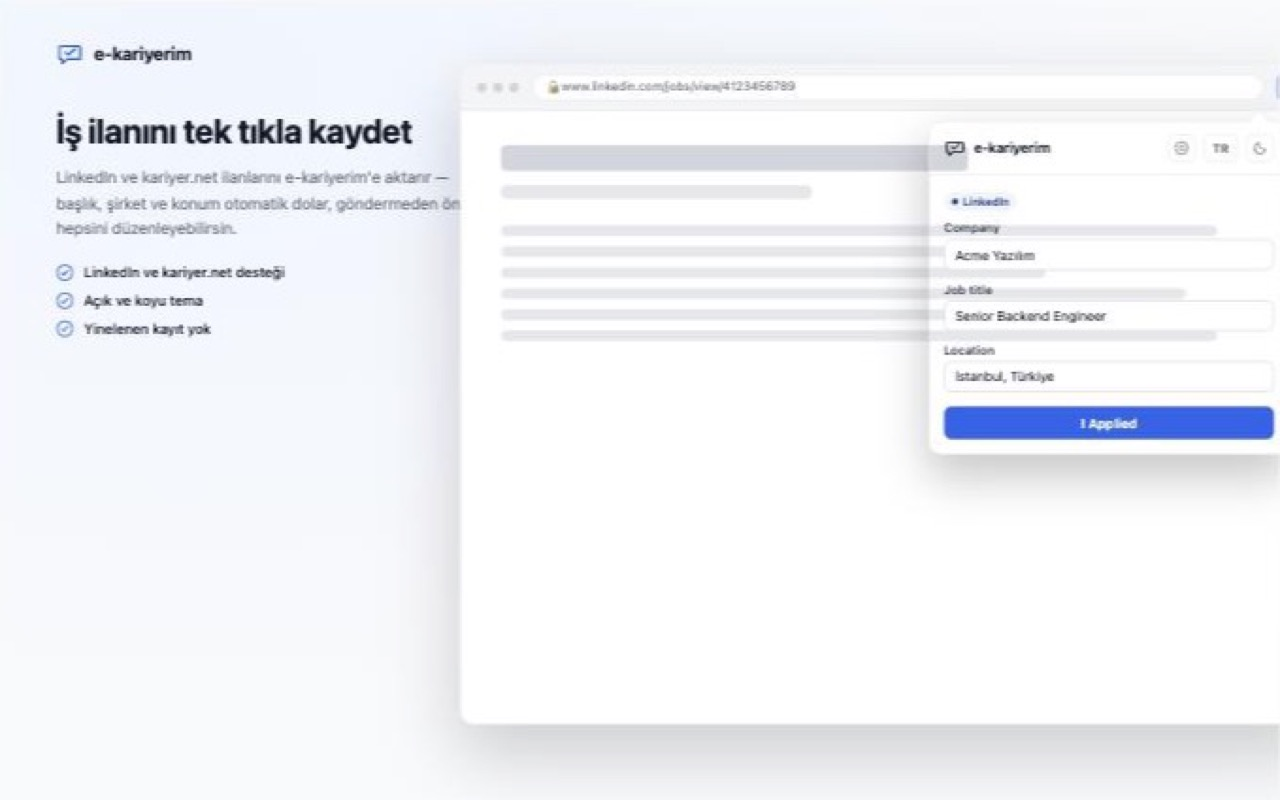
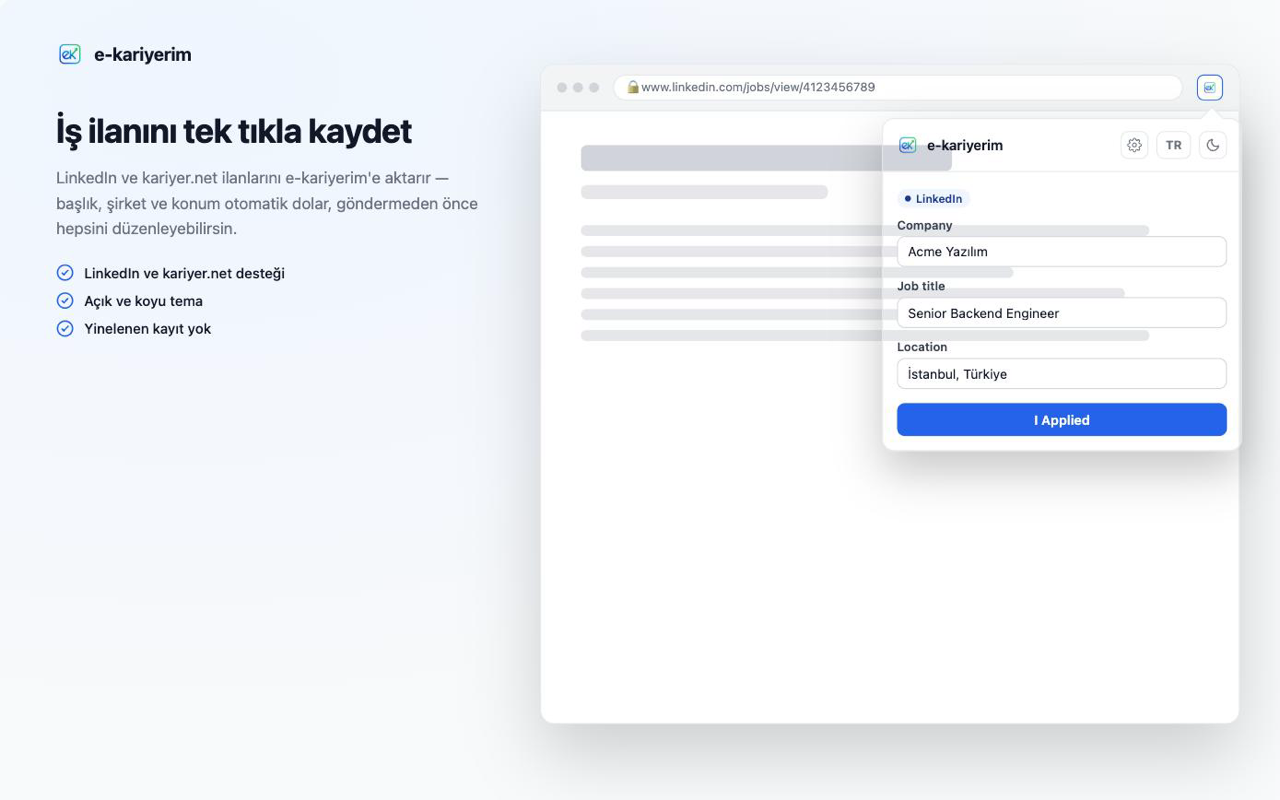
Reshoot the rest of the help images, and fix what shooting them exposed
Every help screenshot and GIF except dashboard-overview.png came from one
session on 2026-09-01, and had been wrong at least twice since: the app mark
became the "ek" gradient logo the next day, and Notifications joined the navbar,
which in those narrow captures wrapped onto a second row. Page by page, the
sign-in shot predated Google and LinkedIn sign-in and the forgot-password link,
sign-up predated the confirm-password field and the password policy, settings
still showed the deleted email-forwarding card, and suggestions predated
rejection-reason extraction.

The landing page needed nothing. It holds no image at all: HeroSection's
DashboardPreview and AnalyticsSection run the real dashboard components against
fixed demo data, so the redesign already updated it. Worth keeping — it makes
the signed-out screen impossible to leave behind rather than merely a chore.

Shot from a seeded demo account, not real data. This one is kept, restored
afterwards to exactly the state the images show, so the next refresh can log in
and reshoot. The GIFs drop the recorder's overlays: the old ones had a "wait"
label, an orange progress bar and a Claude watermark burnt into public product
documentation.

chrome-extension-popup.png and chrome-extension-options.png were not screenshots
at all — the store listing's marketing compositions had been copied into the
help centre, and the popup one was visibly broken, its left column clipped by
[…]

diff --git a/extension/store-listing/screenshots/scene-job.html b/extension/store-listing/screenshots/scene-job.html
@@ -66,7 +66,7 @@
     align-items: center;
     gap: 10px;
   }
-  .brand svg { width: 28px; height: 28px; color: var(--brand-accent); }
+  .brand img { width: 28px; height: 28px; }
   .brand span { font-size: 18px; font-weight: 700; color: var(--text); letter-spacing: -0.01em; }
 
   .headline {
@@ -96,8 +96,8 @@
   .browser {
     position: absolute;
     top: 64px;
-    right: -40px;
-    width: 860px;
+    right: 40px;
+    width: 700px;
     height: 660px;
     background: var(--page-bg);
     border: 1px solid var(--page-border);
@@ -140,7 +140,8 @@
     justify-content: center;
     color: var(--brand-accent);
   }
-  .toolbar-icon svg { width: 15px; height: 15px; }
+  .toolbar-icon svg,
+  .toolbar-icon img { width: 15px; height: 15px; }
 
   .page-body { padding: 34px 40px; }
   .job-title { height: 26px; width: 60%; background: var(--line-strong); border-radius: 6px; margin-bottom: 14px; }
@@ -153,8 +154,8 @@
 
   .popup-anchor {
     position: absolute;
-    top: 56px;
-    right: 30px;
+    top: 118px;
+    right: 38px;
     width: 360px;
   }
   .pointer {
@@ -191,10 +192,7 @@
 
   <div id="canvas">
   <div class="brand">
-    <svg viewBox="0 0 24 24" fill="none" stroke="currentColor" stroke-width="1.75" stroke-linecap="round" stroke-linejoin="round">
-      <path d="M4 5.5h16a1 1 0 011 1v9a1 1 0 01-1 1H9.5l-4 3.5v-3.5H4a1 1 0 01-1-1v-9a1 1 0 011-1z"/>
-      <path d="M8 10.5l2.4 2.4L16.5 7.5"/>
-    </svg>
+    <img src="../../icons/icon48.png" alt="" />
     <span>e-kariyerim</span>
   </div>
 
@@ -213,10 +211,7 @@
       <div class="dots"><span></span><span></span><span></span></div>
       <div class="address">🔒 www.linkedin.com/jobs/view/4123456789</div>
       <div class="toolbar-icon">
-        <svg viewBox="0 0 24 24" fill="none" stroke="currentColor" stroke-width="1.75" stroke-linecap="round" stroke-linejoin="round">
-          <path d="M4 5.5h16a1 1 0 011 1v9a1 1 0 01-1 1H9.5l-4 3.5v-3.5H4a1 1 0 01-1-1v-9a1 1 0 011-1z"/>
-          <path d="M8 10.5l2.4 2.4L16.5 7.5"/>
-        </svg>
+        <img src="../../icons/icon48.png" alt="" />
       </div>
     </div>
     <div class="page-body">
@@ -230,32 +225,30 @@
       <div class="job-line w1"></div>
     </div>
 
-    <div class="popup-anchor">
-      <div class="pointer"></div>
-      <div class="popup-window">
-        <header class="app-header">
-          <svg class="logo" viewBox="0 0 24 24" fill="none" stroke="currentColor" stroke-width="1.75" stroke-linecap="round" stroke-linejoin="round">
-            <path d="M4 5.5h16a1 1 0 011 1v9a1 1 0 01-1 1H9.5l-4 3.5v-3.5H4a1 1 0 01-1-1v-9a1 1 0 011-1z"/>
-            <path d="M8 10.5l2.4 2.4L16.5 7.5"/>
-          </svg>
-          <h1>e-kariyerim</h1>
-          <button class="theme-toggle" type="button" aria-hidden="true" tabindex="-1">
-            <svg viewBox="0 0 24 24" fill="none" stroke="currentColor" stroke-width="1.75" stroke-linecap="round" stroke-linejoin="round"><circle cx="12" cy="12" r="3"/><path d="M19.4 15a1.65 1.65 0 00.33 1.82l.06.06a2 2 0 11-2.83 2.83l-.06-.06a1.65 1.65 0 00-1.82-.33 1.65 1.65 0 00-1 1.51V21a2 2 0 01-4 0v-.09A1.65 1.65 0 009 19.4a1.65 1.65 0 00-1.82.33l-.06.06a2 2 0 11-2.83-2.83l.06-.06A1.65 1.65 0 004.6 15a1.65 1.65 0 00-1.51-1H3a2 2 0 010-4h.09A1.65 1.65 0 004.6 9a1.65 1.65 0 00-.33-1.82l-.06-.06a2 2 0 112.83-2.83l.06.06A1.65 1.65 0 009 4.6a1.65 1.65 0 001-1.51V3a2 2 0 014 0v.09a1.65 1.65 0 001 1.51 1.65 1.65 0 001.82-.33l.06-.06a2 2 0 112.83 2.83l-.06.06A1.65 1.65 0 0019.4 9a1.65 1.65 0 001.51 1H21a2 2 0 010 4h-.09a1.65 1.65 0 00-1.51 1z"/></svg>
-          </button>
-          <button class="lang-toggle" type="button" aria-hidden="true" tabindex="-1">TR</button>
-          <button id="sceneThemeToggle" class="theme-toggle" type="button" aria-hidden="true" tabindex="-1"></button>
-        </header>
-        <main id="content">
-          <span class="site-badge">LinkedIn</span>
-          <label>Company</label>
-          <input type="text" value="Acme Yazılım" readonly />
-          <label>Job title</label>
-          <input type="text" value="Senior Backend Engineer" readonly />
-          <label>Location</label>
-          <input type="text" value="İstanbul, Türkiye" readonly />
-          <button class="primary">I Applied</button>
-        </main>
-      </div>
+  </div>
+
+  <div class="popup-anchor">
+    <div class="pointer"></div>
+    <div class="popup-window">
+      <header class="app-header">
+        <img class="logo" src="../../icons/icon48.png" alt="" width="22" height="22" />
+        <h1>e-kariyerim</h1>
+        <button class="theme-toggle" type="button" aria-hidden="true" tabindex="-1">
+          <svg viewBox="0 0 24 24" fill="none" stroke="currentColor" stroke-width="1.75" stroke-linecap="round" stroke-linejoin="round"><circle cx="12" cy="12" r="3"/><path d="M19.4 15a1.65 1.65 0 00.33 1.82l.06.06a2 2 0 11-2.83 2.83l-.06-.06a1.65 1.65 0 00-1.82-.33 1.65 1.65 0 00-1 1.51V21a2 2 0 01-4 0v-.09A1.65 1.65 0 009 19.4a1.65 1.65 0 00-1.82.33l-.06.06a2 2 0 11-2.83-2.83l.06-.06A1.65 1.65 0 004.6 15a1.65 1.65 0 00-1.51-1H3a2 2 0 010-4h.09A1.65 1.65 0 004.6 9a1.65 1.65 0 00-.33-1.82l-.06-.06a2 2 0 112.83-2.83l.06.06A1.65 1.65 0 009 4.6a1.65 1.65 0 001-1.51V3a2 2 0 014 0v.09a1.65 1.65 0 001 1.51 1.65 1.65 0 001.82-.33l.06-.06a2 2 0 112.83 2.83l-.06.06A1.65 1.65 0 0019.4 9a1.65 1.65 0 001.51 1H21a2 2 0 010 4h-.09a1.65 1.65 0 00-1.51 1z"/></svg>
+        </button>
+        <button class="lang-toggle" type="button" aria-hidden="true" tabindex="-1">TR</button>
+        <button id="sceneThemeToggle" class="theme-toggle" type="button" aria-hidden="true" tabindex="-1"></button>
+      </header>
+      <main id="content">
+        <span class="site-badge">LinkedIn</span>
+        <label>Company</label>
+        <input type="text" value="Acme Yazılım" readonly />
+        <label>Job title</label>
+        <input type="text" value="Senior Backend Engineer" readonly />
+        <label>Location</label>
+        <input type="text" value="İstanbul, Türkiye" readonly />
+        <button class="primary">I Applied</button>
+      </main>
     </div>
   </div>
   </div>

diff --git a/extension/store-listing/screenshots/scene-options.html b/extension/store-listing/screenshots/scene-options.html
@@ -49,7 +49,7 @@
     align-items: center;
     gap: 10px;
   }
-  .brand svg { width: 28px; height: 28px; color: var(--brand-accent); }
+  .brand img { width: 28px; height: 28px; }
   .brand span { font-size: 18px; font-weight: 700; color: var(--text); letter-spacing: -0.01em; }
 
   .headline {
@@ -94,10 +94,7 @@
 
   <div id="canvas">
     <div class="brand">
-      <svg viewBox="0 0 24 24" fill="none" stroke="currentColor" stroke-width="1.75" stroke-linecap="round" stroke-linejoin="round">
-        <path d="M4 5.5h16a1 1 0 011 1v9a1 1 0 01-1 1H9.5l-4 3.5v-3.5H4a1 1 0 01-1-1v-9a1 1 0 011-1z"/>
-        <path d="M8 10.5l2.4 2.4L16.5 7.5"/>
-      </svg>
+      <img src="../../icons/icon48.png" alt="" />
       <span>e-kariyerim</span>
     </div>
 
@@ -108,10 +105,7 @@
 
     <div class="options-window">
       <header class="app-header">
-        <svg class="logo" viewBox="0 0 24 24" fill="none" stroke="currentColor" stroke-width="1.75" stroke-linecap="round" stroke-linejoin="round">
-          <path d="M4 5.5h16a1 1 0 011 1v9a1 1 0 01-1 1H9.5l-4 3.5v-3.5H4a1 1 0 01-1-1v-9a1 1 0 011-1z"/>
-          <path d="M8 10.5l2.4 2.4L16.5 7.5"/>
-        </svg>
+        <img class="logo" src="../../icons/icon48.png" alt="" width="22" height="22" />
         <h1>e-kariyerim Settings</h1>
         <button class="lang-toggle" type="button" aria-hidden="true" tabindex="-1">TR</button>
         <button class="theme-toggle" type="button" aria-hidden="true" tabindex="-1"></button>

diff --git a/web/src/components/auth/SocialSignIn.tsx b/web/src/components/auth/SocialSignIn.tsx
@@ -5,10 +5,14 @@ import { useClientConfig } from "@/hooks/useClientConfig";
 import { GoogleSignInButton } from "./GoogleSignInButton";
 import { LinkedInSignInButton } from "./LinkedInSignInButton";
 
-// The "or" divider plus every configured social sign-in button, under the password form on the
-// login page. Renders nothing at all when no provider is configured on this deployment, so the
-// divider never dangles above an empty space. Each button still decides for itself whether to
-// render (same /api/config flags), this only owns the divider.
+// The "or" divider plus every configured social sign-in button, under the password form on both
+// the login and the sign-up page. Renders nothing at all when no provider is configured on this
+// deployment, so the divider never dangles above an empty space. Each button still decides for
+// itself whether to render (same /api/config flags), this only owns the divider.
+//
+// Both pages render this one component rather than listing buttons themselves: when LinkedIn was
+// added, login moved here and sign-up kept its lone <GoogleSignInButton />, so you could sign in
+// with LinkedIn but not sign up with it — and the sign-up page had no divider at all.
 export function SocialSignIn() {
   const { config } = useClientConfig();
   const t = useTranslations("auth.social");

diff --git a/web/src/app/[locale]/(public)/register/page.tsx b/web/src/app/[locale]/(public)/register/page.tsx
@@ -15,7 +15,7 @@ import { Input } from "@/components/ui/Input";
 import { Button } from "@/components/ui/Button";
 import { Checkbox } from "@/components/ui/Checkbox";
 import { PasswordRequirements } from "@/components/ui/PasswordRequirements";
-import { GoogleSignInButton } from "@/components/auth/GoogleSignInButton";
+import { SocialSignIn } from "@/components/auth/SocialSignIn";
 
 type FieldErrors = Partial<
   Record<"email" | "password" | "confirmPassword" | "firstName" | "lastName" | "consentAccepted", string>
@@ -165,7 +165,7 @@ export default function RegisterPage() {
             {isSubmitting ? t("submitting") : t("submit")}
           </Button>
         </form>
-        <GoogleSignInButton />
+        <SocialSignIn />
         <p className="mt-4 text-sm text-gray-600 dark:text-gray-400">
           {t("haveAccount")}{" "}
           <Link href="/login" className="text-blue-600 hover:underline dark:text-blue-400">

diff --git a/tests/AfterApply.IntegrationTests/Imports/LinkedInImportTests.cs b/tests/AfterApply.IntegrationTests/Imports/LinkedInImportTests.cs
@@ -8,9 +8,11 @@ using System.Text.Json;
 using System.Text.Json.Serialization;
 using AfterApply.Application.Identity.Contracts;
 using AfterApply.Application.Imports.Contracts;
+using AfterApply.Domain.Common;
 using AfterApply.Domain.Imports;
 using AfterApply.Infrastructure.Persistence;
 using Microsoft.AspNetCore.Mvc.Testing;
+using Microsoft.AspNetCore.SignalR.Protocol;
 using Microsoft.EntityFrameworkCore;
 using Microsoft.Extensions.DependencyInjection;
 using Shouldly;
@@ -201,5 +203,27 @@ public class LinkedInImportTests(SharedInfrastructure shared) : IAsyncLifetime
         var response = await _client.PostAsync("/api/imports/linkedin", BuildZipUpload(zip));
 
         response.StatusCode.ShouldBe(HttpStatusCode.BadRequest);
+    }
+
+    // The import uploader reads progress.status off the hub push and compares it to the strings
+    // "Completed"/"Failed". SignalR serializes hub payloads with its own options, not the ones
+    // ConfigureHttpJsonOptions sets for the REST endpoints — so an enum went out over the socket
+    // as its ordinal while GET /api/imports/{id} returned the name, and the push that landed after
+    // the last poll turned a finished import into "Yükleme başarısız oldu" on screen.
+    [Fact]
+    public void ImportProgressHub_Serializes_Enums_As_Strings()
+    {
+        var protocol = _factory!.Services.GetServices<IHubProtocol>().OfType<JsonHubProtocol>().Single();
+        var summary = new ImportSummaryResponse(
+            Guid.NewGuid(), Source.LinkedInImport, "linkedin_export.zip", ImportBatchStatus.Completed,
+            ProcessedRows: 5, TotalRows: 5, TotalRecords: 5, NewApplications: 5,
+            DuplicateRecords: 0, InvalidRecords: 0, CompletedAt: DateTimeOffset.UtcNow,
+            ErrorMessage: null, Errors: []);
+
+        var payload = protocol.GetMessageBytes(new InvocationMessage("importStatusChanged", [summary]));
+        var json = Encoding.UTF8.GetString(payload.ToArray());
+
+        json.ShouldContain("\"status\":\"Completed\"");
+        json.ShouldContain("\"source\":\"LinkedInImport\"");
     }
 }

diff --git a/src/AfterApply.Api/Program.cs b/src/AfterApply.Api/Program.cs
@@ -60,7 +60,14 @@ builder.Services.AddInfrastructure(builder.Configuration);
 builder.Services.AddApiRateLimiting(builder.Configuration);
 builder.Services.AddProblemDetails();
 builder.Services.AddExceptionHandler<DomainExceptionHandler>();
-builder.Services.AddSignalR();
+// ConfigureHttpJsonOptions above only reaches Minimal API responses; SignalR serializes hub
+// payloads with its own options. Without the same converter here, ImportSummaryResponse.Status
+// went out over the hub as the enum's ordinal (2) while GET /api/imports/{id} returned
+// "Completed" — and useImportProgress compares against the string, so the push that arrived after
+// the last poll flipped a finished import to the "failed" branch of the uploader.
+builder.Services.AddSignalR()
+    .AddJsonProtocol(options =>
+        options.PayloadSerializerOptions.Converters.Add(new JsonStringEnumConverter()));
 builder.Services.AddScoped<IImportProgressNotifier, SignalRImportProgressNotifier>();
 
 var app = builder.Build();

diff --git a/DECISIONS.md b/DECISIONS.md
@@ -3121,6 +3121,87 @@ Bu tur iki UI hatası daha çıkardı: (1) paylaşılan ölçekte küçük değe
 durum adı ("Ön Değerlendirme") etiket sütununu birkaç piksel aşıp kırpılıyordu — `truncate`
 kaldırıldı, etiket iki satıra sarıyor.
 
+### Ana sayfa yenilenmedi çünkü yenilenmesi gerekmiyor — DECIDED
+
+Landing sayfasında hiç ekran görüntüsü dosyası yok. `HeroSection` → `DashboardPreview` ve
+`AnalyticsSection` gerçek pano bileşenlerini (`StatTile`, `ConversionFunnel`, `OutcomeCard`,
+`StatusBreakdown`, `ResponseTimeCard`) sabit demo veriyle çalıştırıyor, dolayısıyla pano
+redesign'ı ana sayfayı zaten kendiliğinden güncelledi. Bu yapı korunacak: giriş yapılmadan
+görülen ekranın ürünle uyumsuz kalması bir bakım disiplini sorunu olmaktan çıkıp imkânsız hâle
+geliyor. Görsel yerine bileşen — yeni tanıtım bölümleri de böyle yazılmalı.
+
+### Kalan on bir yardım görseli + üç GIF yeniden çekildi — DECIDED
+
+Hepsi 2026-09-01'deki tek bir çekim seansındandı ve o günden beri en az iki kez yanlış hâle
+gelmişti: (1) logo 2026-09-02'de "ek" gradient markaya döndü, on dört görselin hepsi eski
+konuşma balonunu taşıyordu; (2) navbar'a Bildirimler eklendi ve eski çekimlerde pencere dar
+olduğu için navbar iki satıra sarıyordu. Sayfaya özel olarak da giriş ekranı Google/LinkedIn
+ile giriş ve "şifremi unuttum" bağlantısını, kayıt ekranı şifre tekrarı + şifre politikasını,
+ayarlar ekranı silinen e-posta yönlendirme kartını ve yeni token düzenini, öneriler ekranı ret
+gerekçesi çıkarımını göstermiyordu.
+
+Görseller yine üretilmiş bir demo hesapla çekildi (aynı "Elif Yılmaz", `demo.kariyerim@example.com`),
+bu kez hesap silinmedi: çekim sonrası GIF kayıtlarının eklediği/değiştirdiği her şey geri alınıp
+hesap tam olarak görsellerdeki duruma döndürüldü, böylece bir sonraki tazeleme sıfırdan
+seed'lemek zorunda kalmayacak. Tüm çıktılar 1280 piksel genişliğe normalize edildi.
+
+GIF'ler bu tur kayıt aracının bindirmeleri kapatılarak üretildi. Eskilerinde sol üstte "wait"
+etiketi, altta turuncu ilerleme çubuğu ve sağ altta Claude filigranı vardı — herkese açık ürün
+dokümantasyonunda duracak şeyler değil.
+
+### Eklenti görselleri: pazarlama kompozisyonu ≠ ürün ekranı — DECIDED
+
+`help/screenshots/chrome-extension-{popup,options}.png` aslında hiç ekran görüntüsü değildi;
+mağaza listelemesinin pazarlama kompozisyonları yardım merkezine kopyalanmıştı. Popup olanı
+görünür şekilde bozuktu: sol sütun metni üstüne binen tarayıcı çerçevesi tarafından kırpılıyor,
+sağ kenar panelin ortasından kesiliyordu. Kullanıcıya eklentinin gerçek arayüzü hiç
+gösterilmiyordu.
+
+Artık gerçek `popup.html`/`options.html` yakalanıyor: eklenti klasörünün geçici bir kopyasında
+`chrome.storage`/`tabs`/`scripting`/`runtime` stub'lanıp sayfalar statik sunucudan açılıyor, ve
+çıktı yumuşak bir zemine ortalanmış bir iframe içinde çerçeveleniyor. Markup, CSS ve `popup.js`
+kod yolu gerçek; yalnızca tarayıcı-eklentisi bağlamı taklit ediliyor. Options görseli böylece
+Gmail Taraması bölümünü de gösteriyor — eski mockup'ta hiç yoktu.
+
+Aynı kırpılma mağaza görsellerinde de vardı, çünkü `scene-job.html`'in tarayıcı paneli tuvalin
+dışına taşıyor (`right: -40px; width: 860px`) ve popup o panelin `overflow: hidden` kutusunun
+içinde duruyordu. Panel tuvalin içine alındı, popup `.browser`'ın kardeşi yapıldı.
+
+Ve `scene-*.html`'in README'sindeki "gerçek sınıfları kullandığı için sürüklenemez" iddiası
+yanlış çıktı: sınıflar paylaşılıyordu ama *markup* kopyalanmıştı, logo raster'a dönünce
+`popup.html` `<img>`'a geçti, sahneler kendi satır içi `<svg>`'siyle kaldı ve mağaza görselleri
+eski logoyu göstermeye devam etti. Sahneler artık `../../icons/icon48.png`'i kullanıyor; README bu tuzağı
+da yazıyor.
+
+### Kayıt sayfasında LinkedIn ile kayıt yoktu — DECIDED
+
+Çekim sırasında çıkan ikinci hata. LinkedIn ile giriş eklenirken (`e0aab2a`) giriş sayfası
+`SocialSignIn`'e geçmiş, kayıt sayfası kendi tek `<GoogleSignInButton />`'ıyla kalmıştı. Sonuç:
+LinkedIn ile giriş yapılabiliyor ama kayıt olunamıyordu (ilk girişte hesabı zaten bu akış
+oluşturuyor, ama "önce kayıt olayım" diyen kullanıcı seçeneği hiç görmüyordu), üstelik kayıt
+sayfasında "VEYA" ayracı da yoktu — Google butonu forma yapışık duruyordu.
+
+Kayıt sayfası da `SocialSignIn` render ediyor artık. Sağlayıcı listesini iki sayfanın ayrı ayrı
+saymaması, tam olarak bu sapmanın tekrar etmemesi için; `SocialSignIn`'in yorumu da bunu
+söylüyor. Frontend'de bileşen render testi koşumu bilerek yok (`vitest.config.ts`: node ortamı,
+jsdom/RTL yok), o yüzden bu değişiklik gerçek tarayıcıda doğrulandı ve
+`register-form.png` yeniden çekildi.
+
+### Biten import "başarısız" görünüyordu: SignalR kendi JSON ayarlarını kullanıyor — DECIDED
+
+GIF çekimi gerçek bir hata çıkardı. `ConfigureHttpJsonOptions` yalnızca Minimal API yanıtlarına
+uygulanıyor; SignalR hub payload'ını kendi `PayloadSerializerOptions`'ıyla serileştiriyor. Bu
+yüzden `ImportSummaryResponse.Status` REST'te `"Completed"`, hub push'unda `2` olarak gidiyordu.
+`useImportProgress` string karşılaştırdığı için, son poll'dan sonra gelen push `displayPhase`'i
+`failed` dalına düşürüyor ve sorunsuz tamamlanan bir import ekranda "Yükleme başarısız oldu,
+tekrar deneyin." olarak görünüyordu — `progress.errorMessage` null olduğu için de hiçbir gerekçe
+yazmadan.
+
+`AddSignalR().AddJsonProtocol(...)` ile aynı `JsonStringEnumConverter` hub protokolüne de
+veriliyor. Test, host'un DI'ından `JsonHubProtocol`'ü çözüp gerçek bir `InvocationMessage`
+serileştiriyor ve `"status":"Completed"` bekliyor — düzeltme geri alındığında kırmızıya
+döndüğü doğrulandı.
+
 ---
 
 # Spec dokümanındaki küçük tutarsızlıklar (bilgi amaçlı, aksiyon gerektirmiyor)

diff --git a/extension/store-listing/screenshots/README.md b/extension/store-listing/screenshots/README.md
@@ -6,27 +6,40 @@
 All three are 1280×800 PNGs (the Chrome Web Store's required screenshot size) generated from the
 `scene-*.html` files in this folder, which are marketing compositions, not the shipped extension
 pages — they reuse `../../popup.css`'s real classes directly (`.app-header`, `.site-badge`,
-labels/inputs/buttons, `.theme-toggle`) with static sample data, so they can't visually drift from
-the real pages, but they render outside a real browser-extension context. Neither this folder nor
-`store-listing/` is part of the packaged extension (see `PUBLISHING_CHECKLIST.md`'s zip command).
+labels/inputs/buttons, `.theme-toggle`) and `../../icons/icon48.png` for the app mark, so they
+can't visually drift from the real pages, but they render outside a real browser-extension
+context. Neither this folder nor `store-listing/` is part of the packaged extension (see
+`PUBLISHING_CHECKLIST.md`'s zip command).
+
+They only mostly can't drift: the classes and the icon are shared, but the *markup* is copied.
+When the app mark became a raster asset, `popup.html` moved to `<img src="icons/icon48.png">`
+while these scenes kept their own inline chat-bubble `<svg>`, so the store screenshots went on
+showing the old logo. Prefer a shared asset over a copied glyph here.
 
 ## Regenerating them
 
-Each `scene-*.html` renders its own 1280×800 design at a fixed 0.6 CSS `transform: scale()` inside
-a flex-centered, `overflow: hidden` viewport — this makes the capture resilient to the actual
-browser window/viewport size not matching 1280×800 exactly (screenshot tooling here doesn't
-reliably honor a requested window size). The capture therefore comes back smaller than 1280×800
-and off-scale; recover the exact size with a centered crop + upscale, which works because the
-design is flex-centered so the canvas's center coincides with the screenshot's center regardless
-of capture resolution:
+Each `scene-*.html` renders its own 1280×800 design inside a flex-centered, `overflow: hidden`
+viewport, scaled down by a fixed `transform: scale(0.6)` so the whole canvas is visible even in a
+viewport smaller than 1280×800. If the capture tool can size the viewport, capture at 1:1 instead
+— it is sharper than any crop-and-upscale:
+
+1. Serve `extension/` with any static file server (e.g. `python3 -m http.server` run from the
+   `extension/` directory).
+2. Open `store-listing/screenshots/scene-job.html?theme=light` (or `?theme=dark`) /
+   `scene-options.html?theme=light`.
+3. Size the *viewport* (not the window) to exactly 1280×800 and drop the scale-down:
+   `document.getElementById('canvas').style.transform = 'scale(1)'`.
+4. Screenshot, then normalise whatever the tool hands back to the exact required size:
+   `sips -z 800 1280 raw-capture.png --out final.png`.
+
+If the viewport can't be sized, leave the 0.6 scale in place and recover 1280×800 with a centered
+crop + upscale instead — the design is flex-centered, so the canvas's center is the screenshot's
+center at any capture resolution:
 
 ```bash
 sips -c 480 768 raw-capture.jpg --out cropped.png   # centered crop, 1280:800 aspect ratio
-sips -z 800 1280 cropped.png --out final.png         # scale back up to exact 1280x800
+sips -z 800 1280 cropped.png --out final.png        # scale back up to exact 1280x800
 ```
 
 To change the sample content (job title/company, headline copy, theme), edit the `scene-*.html`
-file directly, serve `extension/` with any static file server (e.g. `python3 -m http.server` run
-from the `extension/` directory), open `store-listing/screenshots/scene-job.html?theme=light` (or
-`?theme=dark`) / `scene-options.html?theme=light`, screenshot it, and run it through the crop
-commands above.
+file directly and reshoot.
